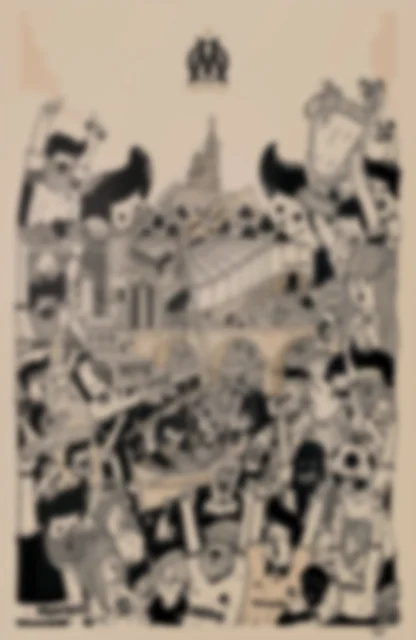
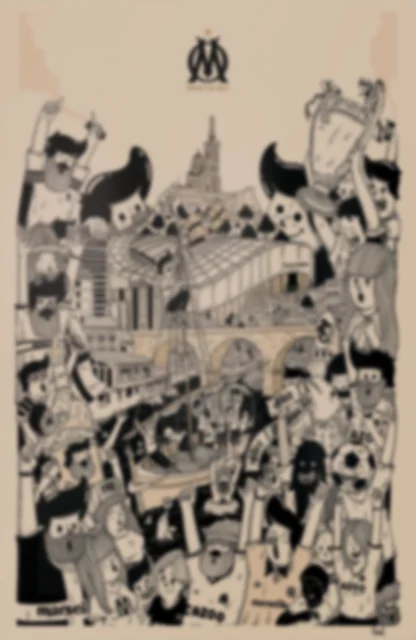
Étoiles et filante bornées au ciel réel, lune au plus loin, chat retiré, roues animées, corbeau x2, flyer plus lent et moins flou, horizon fondu

diff --git a/index.html b/index.html
@@ -263,7 +263,7 @@
 
   // the moon, sunset-lit, ghostly in the upper sky (position, size and opacity hand-tuned)
   const MOONP = { x: 532, y: 42, s: 90 };
-  plane('assets/moon.webp', MOONP.x, MOONP.y, MOONP.s, MOONP.s, -1.8, { opacity: 0.45 });
+  plane('assets/moon.webp', MOONP.x, MOONP.y, MOONP.s, MOONP.s, -2.5, { opacity: 0.45 });   // le plus loin possible : tout le ciel passe devant
 
   // mount Fuji and its sakura in the sky gap, behind the skyline and the flying events
   plane('assets/fuji_night.webp', 376, 66, 640, 640, -1.5);
@@ -302,10 +302,12 @@
 
   // stars: a handful of pixels in the dark upper sky, twinkling
   const NS = 40, sp = new Float32Array(NS * 3);
+  // profil du ciel : premier y « bâti » par tranche de 8 px (les câbles fins sont ignorés, le tri z s'en charge)
+  const SKYLINE = [0,0,0,0,0,0,0,0,0,0,0,0,0,0,0,0,0,0,0,0,4,11,17,17,18,49,53,52,60,65,64,71,72,72,72,30,30,13,21,32,72,72,70,68,71,72,80,83,81,80,74,69,67,62,61,61,61,61,63,66,180,178,178,177,176,174,172,257,169,169,166,164,164,162,159,157,156,154,150,214,208,153,199,194,136,186,142,138,123,121,118,114,110,107,102,98,94,90,86,82,76,72,66,63,58,52,48,44,40,35,30,26,22,18,13,8,4,0,0,4,0,61,51,36,0,0,0,0,0,0,0,0,0,0,0,0,0,0,0,0,0,0,0,0,0,0,0,0,0,0,0,0,0,0,0,0,0,0,0,0,0,0,0,0,0,0,0,0,0,0,0,0,0,0,0,0,0,0,0,0,0,0];
+  const skyTop = (x) => SKYLINE[Math.max(0, Math.min(181, Math.floor(x / 8)))];
   for (let i = 0; i < NS; i++) {
     let sx, sy;
-    do { sx = Math.random() * IW; sy = 10 + Math.random() * 170; }
-    while (Math.hypot(sx - (MOONP.x + MOONP.s / 2), sy - (MOONP.y + MOONP.s / 2)) < MOONP.s / 2 + 3);   // jamais dans le disque lunaire
+    do { sx = Math.random() * IW; sy = 8 + Math.random() * 165; } while (sy > skyTop(sx) - 10);
     sp[i * 3] = sx; sp[i * 3 + 1] = -sy; sp[i * 3 + 2] = 0;
   }
   const starGeo = new THREE.BufferGeometry(); starGeo.setAttribute('position', new THREE.BufferAttribute(sp, 3));
@@ -366,7 +368,7 @@
   (function () { const c = stC.getContext('2d'); const r = c.createRadialGradient(8, 8, 0, 8, 8, 8); r.addColorStop(0, 'rgba(255,233,200,1)'); r.addColorStop(0.35, 'rgba(255,233,200,.55)'); r.addColorStop(1, 'rgba(255,233,200,0)'); c.fillStyle = r; c.fillRect(0, 0, 16, 16); })();
   const stTex = new THREE.CanvasTexture(stC); stTex.magFilter = stTex.minFilter = THREE.LinearFilter; stTex.generateMipmaps = false;
   const station = new THREE.Mesh(new THREE.PlaneGeometry(4, 4), new THREE.MeshBasicMaterial({ map: stTex, transparent: true, opacity: 0, depthWrite: false }));
-  station.position.set(MOONP.x + 0.62 * MOONP.s, -(MOONP.y + 0.38 * MOONP.s), -1.75); scene.add(station);
+  station.position.set(MOONP.x + 0.62 * MOONP.s, -(MOONP.y + 0.38 * MOONP.s), -2.45); scene.add(station);
 
   // rain gusts: every so often the wind picks up for a few seconds
   const gust = { k: 0, target: 0, next: 5 + Math.random() * 30, hold: 0 };
@@ -377,7 +379,7 @@
 
   // ---- actors (PixelLab sprites): feet-anchored, scaled by depth ----
   renderer.localClippingEnabled = true;
-  const SPR = {"cat": {"src": "assets/cat_south.png", "frames": 6, "w": 48, "h": 48, "feet": 4}, "crow": {"src": "assets/crow.png", "frames": 1, "w": 21, "h": 14, "feet": 0}, "car": {"src": "assets/car.png", "frames": 1, "w": 102, "h": 49, "feet": 1}};                     // { name: { src, frames, w, h } }
+  const SPR = {"crow": {"src": "assets/crow.png", "frames": 1, "w": 21, "h": 14, "feet": 0}, "car": {"src": "assets/car.png", "frames": 3, "w": 102, "h": 49, "feet": 1}};                     // { name: { src, frames, w, h } }
   const personH = (y) => (y - 490) * 0.27;     // how tall a person looks at road depth y (px)
   function actor(name, z) {
     const s = SPR[name], tex = crisp(s.src);
@@ -388,11 +390,9 @@
     m.userData.place = (x, feetY, scale, flip) => { m.scale.set(scale * (flip ? -1 : 1), scale, 1); m.position.x = x; m.position.y = -(feetY - (s.h / 2 - s.feet) * scale); };
     return m;
   }
-  // cat crossing the road
-  const cat = actor('cat', 0.7); const catS = { active: false, t: 0, dur: 16, next: 20 + Math.random() * 150 };
   // crow perched on the street-lamp arm
   const crow = actor('crow', 0.7); const crowS = { next: 6 + Math.random() * 12, hop: 0, flip: false };
-  crow.userData.place(958, 163, 1, false); crow.userData.set(0); crow.visible = true;
+  crow.userData.place(958, 163, 2, false); crow.userData.set(0); crow.visible = true;
   // kei car crossing the far intersection, clipped to the gap between the buildings
   const car = actor('car', 0.65); const carS = { active: false, t: 0, dur: 8, next: 15 + Math.random() * 140 };
   car.material.clippingPlanes = [new THREE.Plane(new THREE.Vector3(1, 0, 0), -515), new THREE.Plane(new THREE.Vector3(-1, 0, 0), 845)];
@@ -656,7 +656,7 @@
       if (u >= 1) { plane_.active = false; setPlane(0, 0, false); plane_.next = 40 + Math.random() * 80; }
     }
     // shooting star
-    if (!shoot.active) { shoot.next -= dt; if (shoot.next < 0) { shoot.active = true; shoot.t = 0; streak.position.set(200 + Math.random() * 900, -(20 + Math.random() * 150), -1); } }
+    if (!shoot.active) { shoot.next -= dt; if (shoot.next < 0) { shoot.active = true; shoot.t = 0; let hx, hy, hk = 0; do { hx = 200 + Math.random() * 900; hy = 20 + Math.random() * 150; } while (hy > skyTop(hx) - 20 && ++hk < 30); streak.position.set(hx, -hy, -1); } }
     else { shoot.t += dt; const u = shoot.t / 0.7; streak.position.x += 260 * dt; streak.position.y -= 105 * dt; streak.material.opacity = u < 0.25 ? u * 4 : Math.max(0, 1 - (u - 0.25) / 0.75); if (u >= 1) { shoot.active = false; streak.material.opacity = 0; shoot.next = 20 + Math.random() * 45; } }
     // skyline apartments
     for (const m of dots) { const u = m.userData; u.next -= dt; if (u.next < 0) { u.on = !u.on; u.next = u.on ? 15 + Math.random() * 40 : 6 + Math.random() * 25; } m.material.opacity += ((u.on ? 0.95 : 0) - m.material.opacity) * Math.min(1, dt * 3); }
@@ -679,10 +679,10 @@
     // OM flyer drop: pendulum fall through the frame, ~2.6 s
     if (!flyS.active) { flyS.next -= dt; if (flyS.next < 0) { flyS.active = true; flyS.t = 0; flyS.x = 460 + Math.random() * 620; flyS.ph = Math.random() * 6; flyer.visible = true; } }
     else {
-      flyS.t += dt; const uf = flyS.t / 2.6;
-      flyer.position.x = flyS.x + Math.sin(flyS.t * 2.0 + flyS.ph) * 80;
+      flyS.t += dt; const uf = flyS.t / 4.2;
+      flyer.position.x = flyS.x + Math.sin(flyS.t * 1.5 + flyS.ph) * 70;
       flyer.position.y = 340 - uf * (816 + 680);
-      flyer.rotation.z = 0.14 * Math.sin(flyS.t * 1.6 + flyS.ph);
+      flyer.rotation.z = 0.13 * Math.sin(flyS.t * 1.2 + flyS.ph);
       if (uf >= 1) { flyS.active = false; flyer.visible = false; flyS.next = 60 + Math.random() * 120; }
     }
     // moon station: slow warm pulse
@@ -696,25 +696,16 @@
     hue.t += dt;
     if (signL) { const a = 0.5 + 0.5 * Math.sin(hue.t * 0.12); signL.material.color.setRGB(1, 0.86 + 0.14 * a, 0.9 + 0.1 * (1 - a)); } // pink ↔ pale lavender
     if (signR) { hue.r.next -= dt; if (hue.r.next < 0) { hue.r.alt = !hue.r.alt; hue.r.next = hue.r.alt ? 6 + Math.random() * 10 : 25 + Math.random() * 40; } const tgt = hue.r.alt ? [0.75, 0.9, 1] : [1, 1, 1]; const c = signR.material.color; c.setRGB(c.r + (tgt[0] - c.r) * dt * 2, c.g + (tgt[1] - c.g) * dt * 2, c.b + (tgt[2] - c.b) * dt * 2); }
-    // cat
-    if (!catS.active) { catS.next -= dt; if (catS.next < 0) { catS.active = true; catS.t = 0; cat.visible = true; } }
-    else {
-      catS.t += dt; const u = catS.t / catS.dur, e = u * u * (3 - 2 * u);
-      const y = 640 + (845 - 640) * e, x = 690 + Math.sin(u * 4.2) * 6 + (u - 0.5) * 8;   // the far end, then straight at the camera
-      const sc = (y - 490) / 165;
-      cat.userData.place(x, y, sc, false); cat.userData.set(Math.floor(catS.t * 7) % 6);
-      if (u >= 1) { catS.active = false; cat.visible = false; catS.next = 90 + Math.random() * 120; }
-    }
     // crow: small hops, turns around, ruffles in a gust
     crowS.next -= dt;
     if (crowS.next < 0) { crowS.hop = 0.16; if (Math.random() < 0.4) crowS.flip = !crowS.flip; crowS.next = 8 + Math.random() * 25; }
     if (crowS.hop > 0) crowS.hop -= dt;
-    crow.userData.place(958 + (gust.k > 0.5 ? (Math.random() - 0.5) * 1.5 : 0), 163 - (crowS.hop > 0 ? 2 : 0), 1, crowS.flip);
+    crow.userData.place(958 + (gust.k > 0.5 ? (Math.random() - 0.5) * 1.5 : 0), 163 - (crowS.hop > 0 ? 2 : 0), 2, crowS.flip);
     // car
     if (!carS.active) { carS.next -= dt; if (carS.next < 0) { carS.active = true; carS.t = 0; car.visible = true; } }
     else {
       carS.t += dt; const u = carS.t / carS.dur;
-      const cx = 910 + (450 - 910) * u; car.userData.place(cx, carGround(cx), 1, false); car.userData.set(0);
+      const cx = 910 + (450 - 910) * u; car.userData.place(cx, carGround(cx), 1, false); car.userData.set(Math.floor(t * 15) % 3);
       if (u >= 1) { carS.active = false; car.visible = false; carS.next = 70 + Math.random() * 110; }
     }
     // lit window state machine
